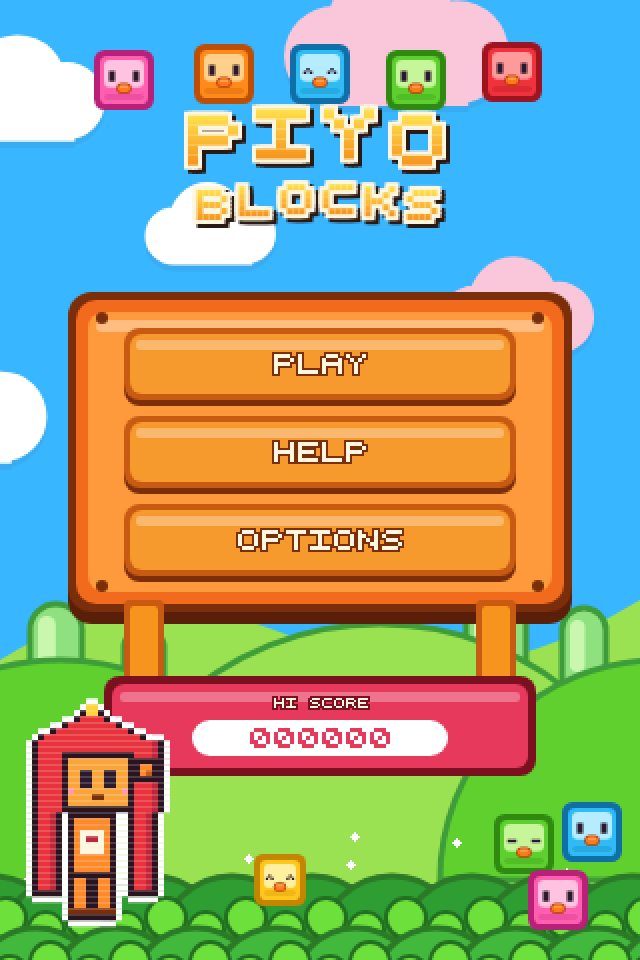
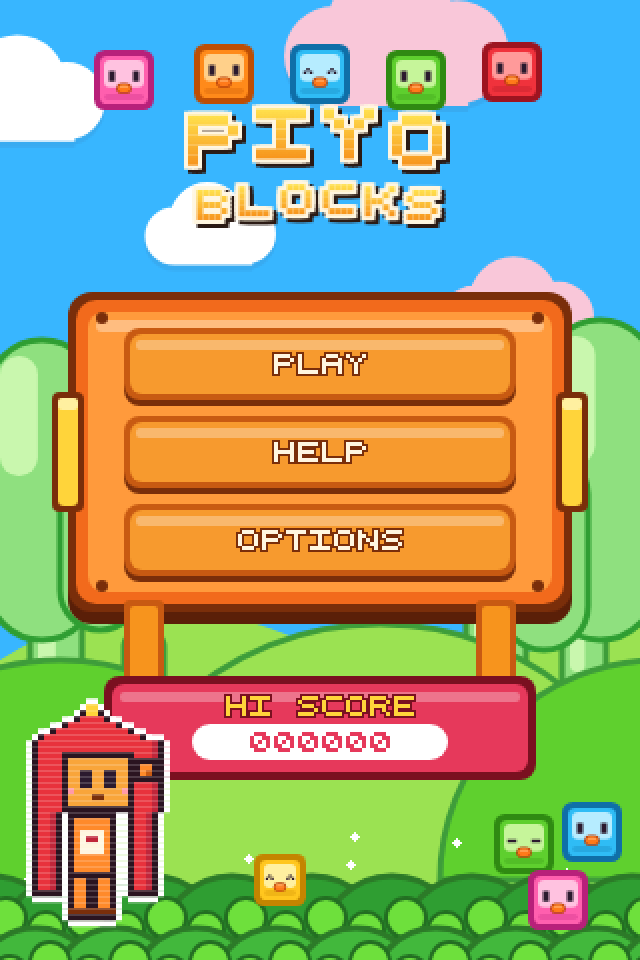
Piyo bird blocks, 7x7 board, signboard UI, new Piyo girl sprite, richer palette

Changed region(s): [[0.8125, 0.3125, 1.0, 0.6875], [0.0, 0.3438, 0.1875, 0.6875], [0.25, 0.7188, 0.8438, 0.8125]]

diff --git a/index.html b/index.html
@@ -543,13 +543,17 @@ function drawLogo(y){
 function renderTitle(){
   drawSkyBg(appT);
   drawLogo(46);
+  // tall rounded bushes flanking the sign
+  for(const [bx,by,bw,bh] of [[-6,170,54,150],[272,160,56,160],[30,215,40,100],[250,225,44,100]]){ rr(bx,by,bw,bh,bw/2); ctx.fillStyle='#8fe07f'; ctx.fill(); ctx.strokeStyle='#2f9e32'; ctx.lineWidth=3; ctx.stroke(); rr(bx+6,by+8,bw*0.35,bh*0.4,bw*0.17); ctx.fillStyle='#c9f7ae'; ctx.fill(); }
   drawSign(38,146,244,160);
+  // yellow bracket hooks
+  for(const hx of [26,278]){ frr(hx,196,16,60,4,'#7a2e0a'); frr(hx+3,199,10,54,3,'#ffd43a'); frr(hx+3,199,10,6,2,'#fff0a0'); }
   frr(62,300,20,52,3,'#c85a12'); frr(65,303,14,46,2,'#f7941d'); frr(238,300,20,52,3,'#c85a12'); frr(241,303,14,46,2,'#f7941d');
   for(const b of buttons) drawBtn(b);
   // hi score plaque
-  frr(52,338,216,50,8,'#7a1020'); frr(56,342,208,42,6,'#e6395b'); ctx.globalAlpha=.3; frr(60,346,200,5,2,'#fff'); ctx.globalAlpha=1;
-  drawTextO('HI SCORE',160,349,1,'#fff6e0','#7a1020','center',1);
-  const best=Math.max(0,...Object.values(SAVE.hi)); frr(96,360,128,18,9,'#fff'); drawText(pad(best,6),160,364,2,'#e6395b','center');
+  frr(52,338,216,52,8,'#7a1020'); frr(56,342,208,44,6,'#e6395b'); ctx.globalAlpha=.3; frr(60,346,200,5,2,'#fff'); ctx.globalAlpha=1;
+  drawTextO('HI SCORE',160,348,2,'#ffd43a','#7a1020','center',1);
+  const best=Math.max(0,...Object.values(SAVE.hi)); frr(96,362,128,18,9,'#fff'); drawText(pad(best,6),160,366,2,'#e6395b','center');
   drawPiyo(10,H-128,3,Math.sin(appT*3)*3);
   drawBlock(262,H-58,30,4,{expr:1}); drawBlock(296,H-64,30,5,{}); drawBlock(279,H-30,30,0,{});
   drawBlock(140,H-40,26,2,{expr:2});
